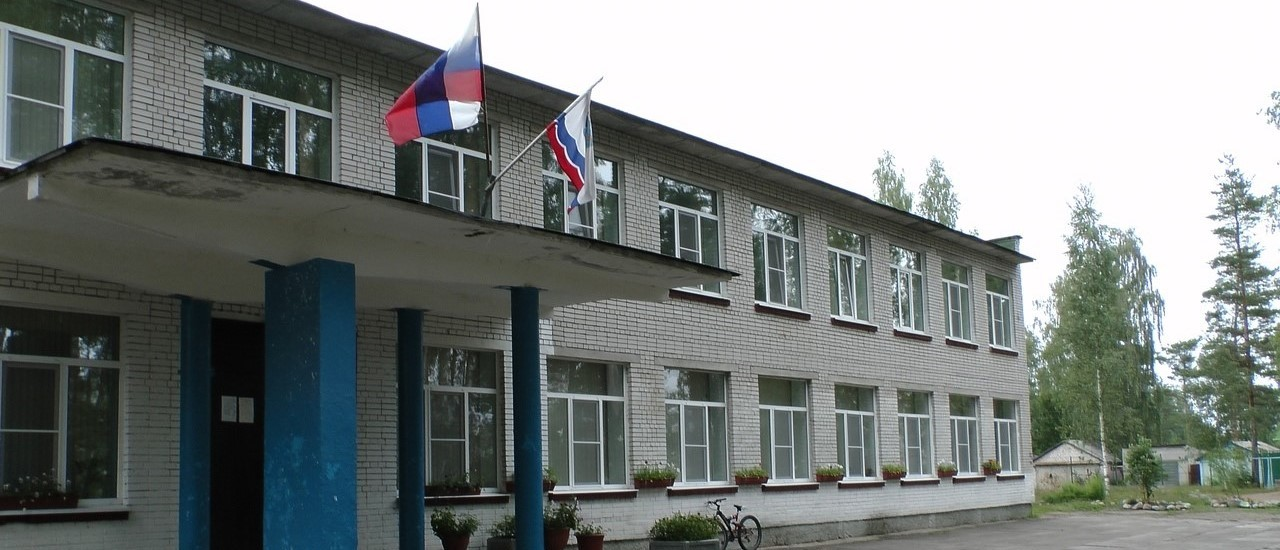
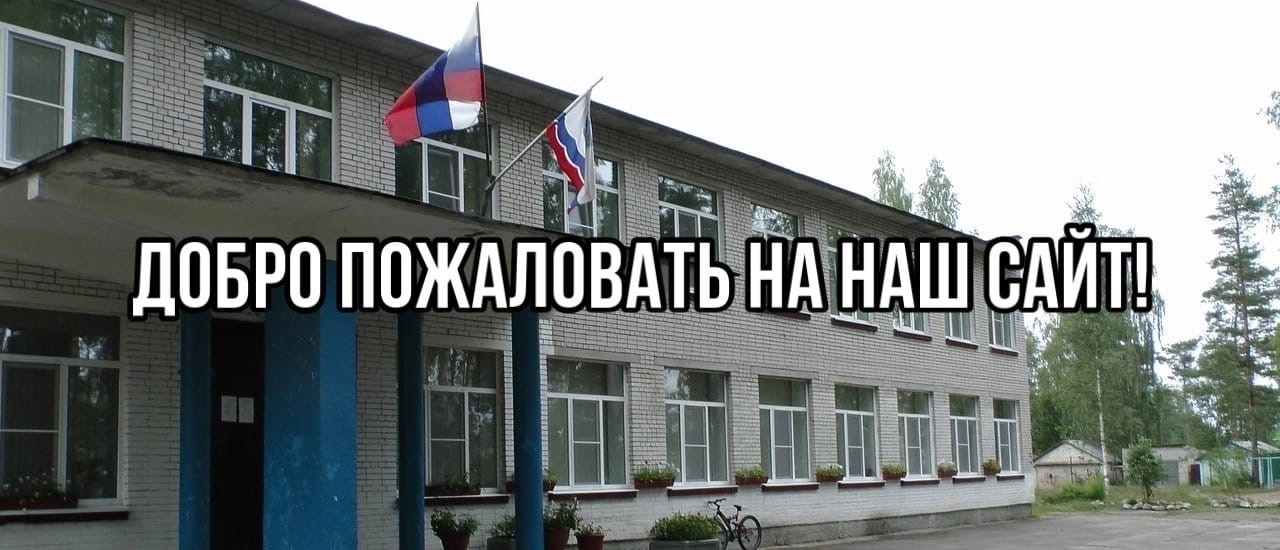
1commit

Changed region(s): [[0.0938, 0.4018, 0.9062, 0.5873]]

diff --git a/index.html b/index.html
@@ -65,88 +65,32 @@
     </header>
 
     <main>
-    <div id="myCarousel" class="carousel slide" data-bs-ride="carousel">
-      <div class="carousel-indicators">
-        <button
-          type="button"
-          data-bs-target="#myCarousel"
-          data-bs-slide-to="0"
-          class="active"
-          aria-current="true"
-          aria-label="Slide 1"
-        ></button>
-        <button
-          type="button"
-          data-bs-target="#myCarousel"
-          data-bs-slide-to="1"
-          aria-label="Slide 2"
-        ></button>
-        <button
-          type="button"
-          data-bs-target="#myCarousel"
-          data-bs-slide-to="2"
-          aria-label="Slide 3"
-        ></button>
+      <div id="carouselExampleIndicators" class="carousel slide" data-bs-ride="true">
+        <div class="carousel-indicators">
+          <button type="button" data-bs-target="#carouselExampleIndicators" data-bs-slide-to="0" class="active" aria-current="true" aria-label="Slide 1"></button>
+          <button type="button" data-bs-target="#carouselExampleIndicators" data-bs-slide-to="1" aria-label="Slide 2"></button>
+          <button type="button" data-bs-target="#carouselExampleIndicators" data-bs-slide-to="2" aria-label="Slide 3"></button>
+        </div>
+        <div class="carousel-inner">
+          <div class="carousel-item active">
+            <img src="images/foto1.jpg" class="d-block w-100">
+          </div>
+          <div class="carousel-item">
+            <img src="images/foto2.jpg" class="d-block w-100">
+          </div>
+          <div class="carousel-item">
+            <img src="images/foto4.jpg" class="d-block w-100">
+          </div>
+        </div>
+        <button class="carousel-control-prev" type="button" data-bs-target="#carouselExampleIndicators" data-bs-slide="prev">
+          <span class="carousel-control-prev-icon" aria-hidden="true"></span>
+          <span class="visually-hidden">Предыдущий</span>
+        </button>
+        <button class="carousel-control-next" type="button" data-bs-target="#carouselExampleIndicators" data-bs-slide="next">
+          <span class="carousel-control-next-icon" aria-hidden="true"></span>
+          <span class="visually-hidden">Следующий</span>
+        </button>
       </div>
-      <div class="carousel-inner">
-        <div class="carousel-item active">
-          <img src="images/foto1.jpg" alt="" width="100%" height="100%" />
-          <div class="container">
-            <div class="carousel-caption">
-              <h1>Добро пожаловать на наш сайт!</h1>
-              <p>
-                На нашем сайте можно узнать о самых важных событиях нашего
-                учебного учреждения.
-              </p>
-            </div>
-          </div>
-        </div>
-        <div class="carousel-item">
-          <img src="images/foto2.jpg" alt="" width="100%" height="100%" />
-          <div class="container">
-            <div class="carousel-caption">
-              <p>
-                МБОУ "Гавриловская ООШ" создает условия для реализации
-                гражданами Российской Федерации гарантированного государством
-                права на получение общедоступного и бесплатного общего
-                образования всех уровней, если образование данного уровня
-                гражданин получает впервые.
-              </p>
-            </div>
-          </div>
-        </div>
-        <div class="carousel-item">
-          <img src="images/foto4.jpg" alt="" width="100%" height="100%" />
-          <div class="container">
-            <div class="carousel-caption">
-              <p>
-                Сайт адресован всем, кому интересно знать, чем живет наше
-                образовательное учреждение. Нам небезразлично Ваше мнение о
-                школе и о сайте.
-              </p>
-            </div>
-          </div>
-        </div>
-      </div>
-      <button
-        class="carousel-control-prev"
-        type="button"
-        data-bs-target="#myCarousel"
-        data-bs-slide="prev"
-      >
-        <span class="carousel-control-prev-icon" aria-hidden="true"></span>
-        <span class="visually-hidden">Previous</span>
-      </button>
-      <button
-        class="carousel-control-next"
-        type="button"
-        data-bs-target="#myCarousel"
-        data-bs-slide="next"
-      >
-        <span class="carousel-control-next-icon" aria-hidden="true"></span>
-        <span class="visually-hidden">Next</span>
-      </button>
-    </div>
     
     <div class="cards">
       <div class="card" style="width: 20rem">

diff --git a/css/media-glavnaya.css b/css/media-glavnaya.css
@@ -27,7 +27,7 @@
           align-items: center;
         }
         .card {
-          margin-bottom: 10px;
+          margin-bottom: 25px;
         }
       }
       @media (max-width: 992px) {
@@ -44,4 +44,38 @@
           max-width: 75%;
         }
       }
-      
+      @media (max-width: 998px) {
+        .cards {
+          margin-top: -100px;
+        }
+      }
+      @media (max-width: 1020px) {
+        .cards {
+          margin-top: -100px;
+        }
+      }
+      @media (max-width: 798px) {
+        .cards {
+          margin-top: -200px;
+        }
+      }
+      @media (max-width: 666px) {
+        .cards {
+          margin-top: -250px;
+        }
+      }
+      @media (max-width: 625px) {
+        .cards {
+          margin-top: -300px;
+        }
+      }
+      @media (max-width: 498px) {
+        .cards {
+          margin-top: -350px;
+        }
+      }
+      @media (max-width: 395px) {
+        .cards {
+          margin-top: -350px;
+        }
+      }

diff --git a/where.html b/where.html
@@ -61,9 +61,10 @@
     
     <main>
       <div class="container d-flex justify-content-center">
-        <div class="card" style="width: 600px">
+        <div class="card" style="max-width: 900px">
           <iframe
             src="https://www.google.com/maps/embed?pb=!1m18!1m12!1m3!1d1959.1836288048783!2d29.032514642072073!3d60.59065617875704!2m3!1f0!2f0!3f0!3m2!1i1024!2i768!4f13.1!3m3!1m2!1s0x469724adf71fcd21%3A0x6759b74ecb7d519a!2z0JPQsNCy0YDQuNC70L7QstGB0LrQsNGPINC-0YHQvdC-0LLQvdCw0Y8g0L7QsdGA0LDQt9C-0LLQsNGC0LXQu9GM0L3QsNGPINGI0LrQvtC70LA!5e0!3m2!1sru!2sru!4v1670916749646!5m2!1sru!2sru"
+            height="400px"
             style="border: 0"
             allowfullscreen=""
             loading="lazy"

diff --git a/register.html b/register.html
@@ -80,7 +80,7 @@
     </div>
 
     <div class="row">
-      <div class="col-6">
+      <div class="col-sm-6 col-12">
         <div class="form-floating">
           <input
             type="password"
@@ -91,7 +91,7 @@
           <label for="floatingPassword">Введите пароль</label>
         </div>
       </div>
-      <div class="col-6">
+      <div class="col-sm-6 col-12">
         <div class="form-floating ">
           <input
             type="password"

diff --git a/css/media-footer.css b/css/media-footer.css
@@ -3,3 +3,10 @@
       font-size: 3.5rem;
     }
   }
+  @media (max-width: 500px) {
+    footer {
+      display: flex;
+      align-items: center;
+      flex-direction: column;
+    }
+  }

diff --git a/css/where.css b/css/where.css
@@ -1,7 +1,7 @@
 .card {
-  margin-top: 200px;
+  margin-top: 140px;
   justify-content: center;
-  margin-bottom: 100px;
+  margin-bottom: 50px;
 }
 @media (max-width: 620px) {
     .card {
